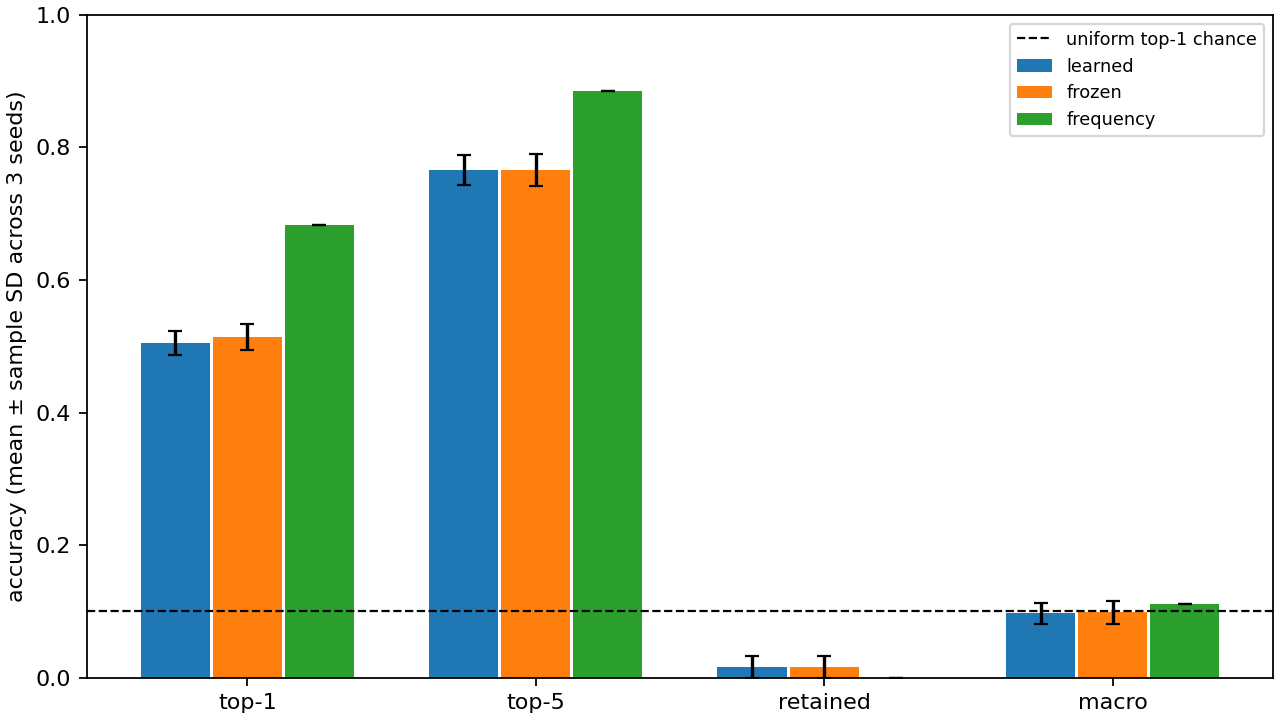
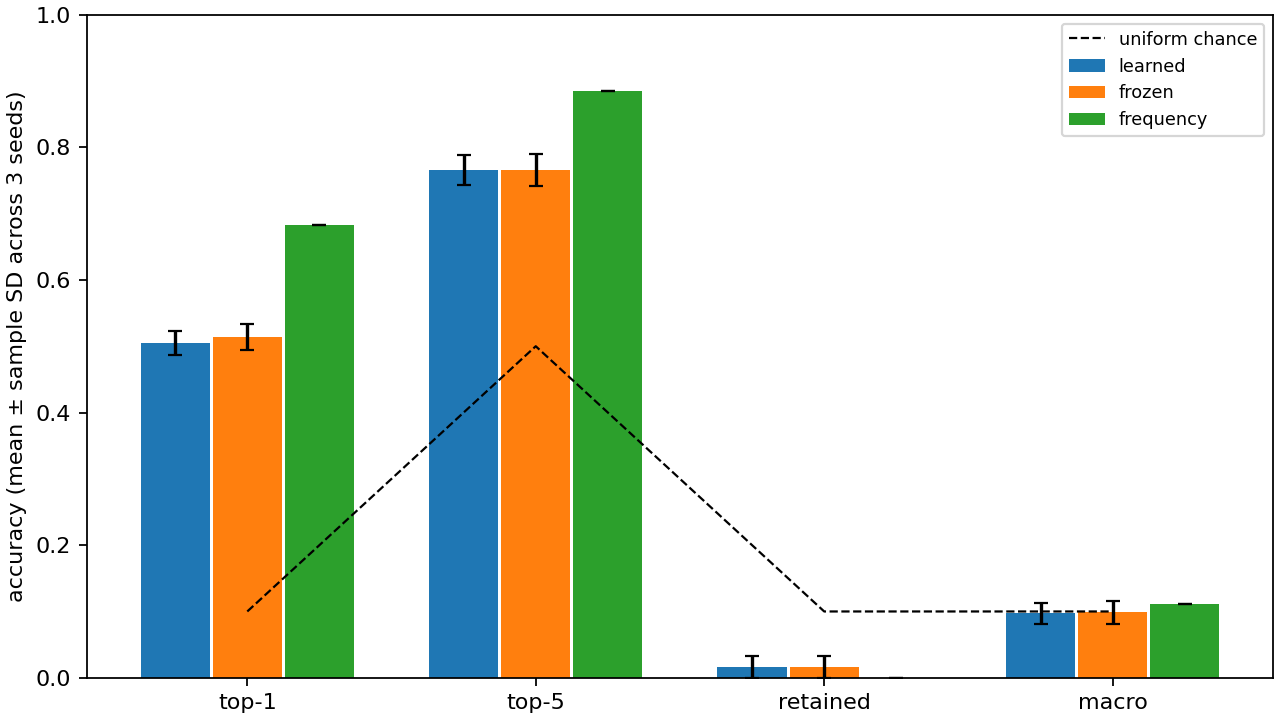
results: add semantic and corrected chance plots

diff --git a/src/flybrain_language/reporting.py b/src/flybrain_language/reporting.py
@@ -2,6 +2,7 @@ from __future__ import annotations
 
 import json
 import os
+import shutil
 from collections import defaultdict
 from pathlib import Path
 
@@ -114,6 +115,7 @@ def summarize(run_dirs: list[Path], output_dir: Path) -> dict:
     )
     _performance_plot(aggregate, output_dir / "performance.png")
     _training_plot(training, output_dir / "training_stability.png")
+    shutil.copyfile(run_dirs[0] / "semantic_cosine.png", output_dir / "semantic_cosine_seed11.png")
     return report
 
 
@@ -126,7 +128,7 @@ def _performance_plot(aggregate: dict, path: Path) -> None:
         means = [aggregate[condition][field]["mean"] for field in fields]
         errors = [aggregate[condition][field]["sample_sd"] for field in fields]
         axis.bar(x + offset, means, 0.24, yerr=errors, label=condition, capsize=3)
-    axis.axhline(0.1, color="black", linestyle="--", linewidth=1, label="uniform top-1 chance")
+    axis.plot(x, [0.1, 0.5, 0.1, 0.1], "k--", linewidth=1, label="uniform chance")
     axis.set_xticks(x, labels)
     axis.set_ylim(0, 1)
     axis.set_ylabel("accuracy (mean ± sample SD across 3 seeds)")

diff --git a/README.md b/README.md
@@ -67,7 +67,8 @@ and representations can grow. Compact measured outputs are checked in under
 - `pilot_summary.json`: three-seed metrics, paired context bootstrap intervals,
   and topology controls.
 - `activity_check.json`: propagation, throughput, memory, and hardware.
-- `performance.png` and `training_stability.png`: small result plots.
+- `performance.png`, `training_stability.png`, and `semantic_cosine_seed11.png`:
+  small result plots, including the held-out state-similarity diagnostic.
 
 The complete raw-source manifest is generated at `data/raw/manifest.json`; the
 processed graph manifest records the selected neuron/edge counts, data hashes,
